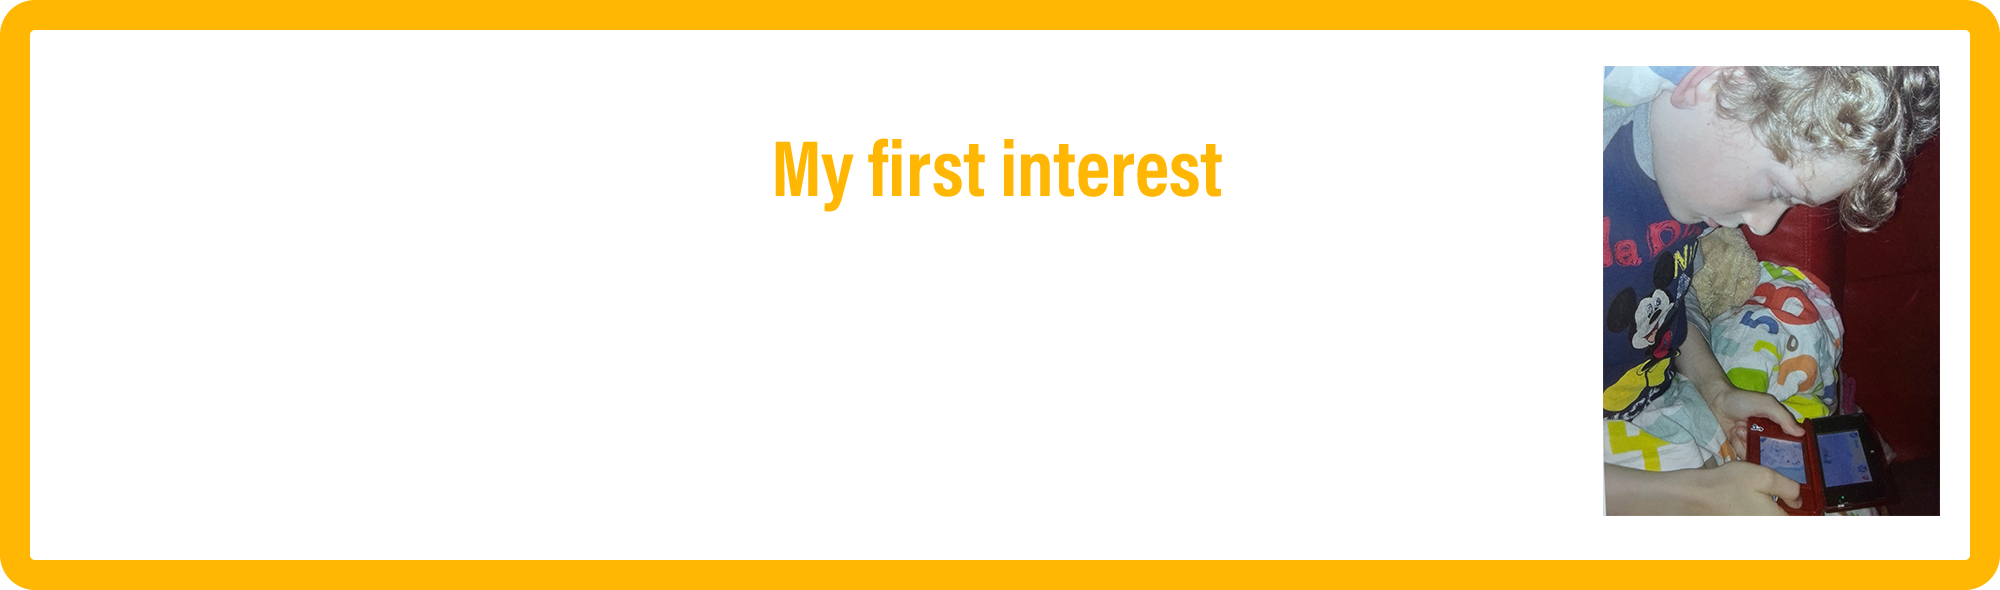
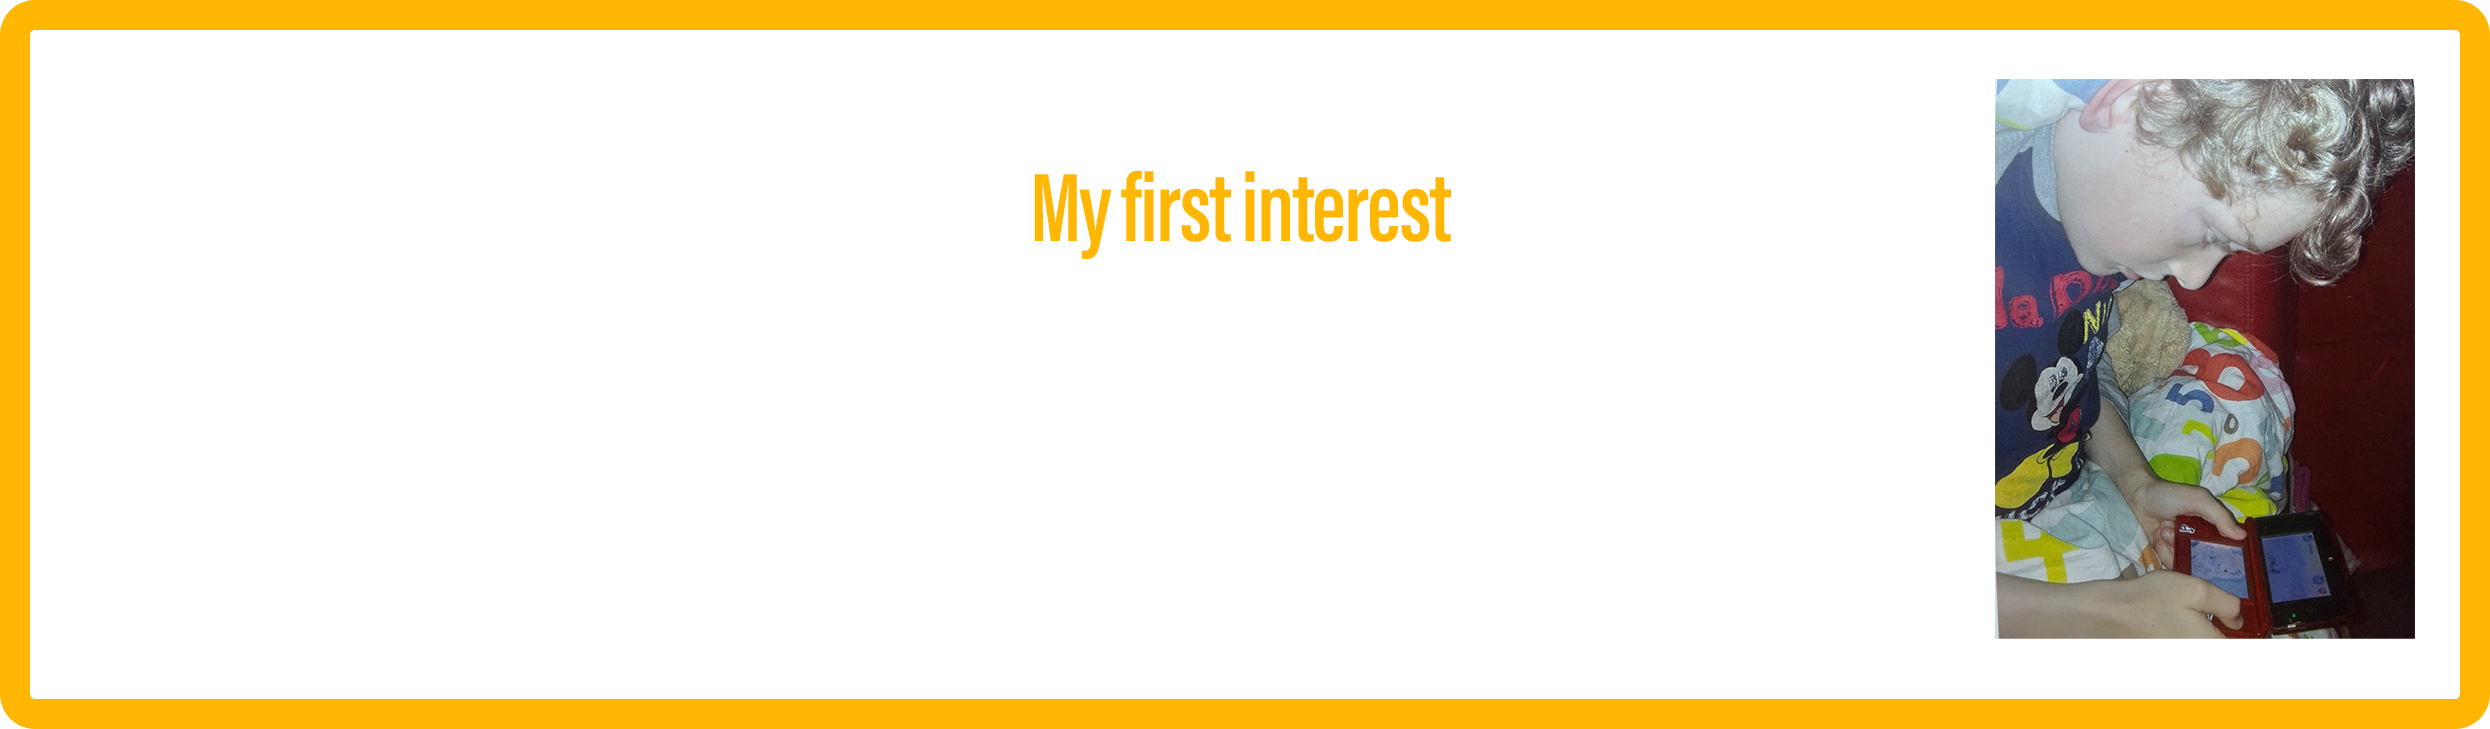
filled in placeholder images

diff --git a/index.html b/index.html
@@ -76,7 +76,7 @@
                 <div class="container pb-5 pt-5">
                     <h3 class="fw-bold h1 mb-5 text-black">My Projects</h3>
                     <div class="gy-5 justify-content-center row row-cols-md-2"> 
-                        <div> <a href="html/WindowsDesktopApplications.html" class="d-block link-light text-decoration-none" target="_parent"><img src="assets/images/AppDevelopmentTemp.jpeg" class="img-fluid mb-4 rounded-1 shadow-sm w-100" alt="..." width="600" height="650" data-pg-alt-review="context"><h4 class="fw-bold h5 mb-1 text-black">Windows Desktop Applications</h4><p class="mb-0 text-black-50">Handy standalone applications.</p></a> 
+                        <div> <a href="html/WindowsDesktopApplications.html" class="d-block link-light text-decoration-none" target="_parent"><img src="assets/gifs/CrosshairPreviewInGame.gif" class="img-fluid mb-4 rounded-1 shadow-sm w-100" alt="..." width="600" height="650" data-pg-alt-review="context"><h4 class="fw-bold h5 mb-1 text-black">Windows Desktop Applications</h4><p class="mb-0 text-black-50">Handy standalone applications.</p></a> 
                         </div>
                         <div class="mt-md-n5"> <a href="html/EducationalGames.html" class="d-block link-light text-decoration-none" target="_parent"><img src="assets/images/EducatieveGame.png" class="img-fluid mb-4 rounded-1 shadow-sm w-100" alt="..." width="600" height="650" data-pg-alt-review="context"><h4 class="fw-bold h5 mb-1 text-black">Educational Games</h4><p class="mb-0 text-black-50">A collection of games made for people with a disability.</p></a> 
                         </div>

diff --git a/html/WindowsDesktopApplications.html b/html/WindowsDesktopApplications.html
@@ -11,7 +11,7 @@
         <!-- Custom styles for this template -->
         <link rel="stylesheet" href="blocks.css">
         <link href="style.css" rel="stylesheet">
-        <title style="">Jules De Smet</title>
+        <title>Jules De Smet</title>
     </head>
     <body class="text-muted">
         <main>
@@ -46,7 +46,7 @@
                             <p class="text-white">Besides game development, I became interested in creating quality of life desktop applications. The point of these projects were to learn something new about creating applications and becoming a better programmer. </p>
                         </div>
                         <div class="col-xl-6 my-5">
-                            <img src="../assets/images/AppDevelopmentTemp.jpeg" width="400" height="600" class="bg-white img-fluid shadow w-100" style="object-fit: cover;" data-pg-alt-review="image"/>
+                            <img src="../assets/gifs/CrosshairPreviewInGame.gif" width="400" height="600" class="bg-white img-fluid shadow w-100" style="object-fit: cover;" data-pg-alt-review="image"/>
                         </div>
                     </div>
                 </div>
